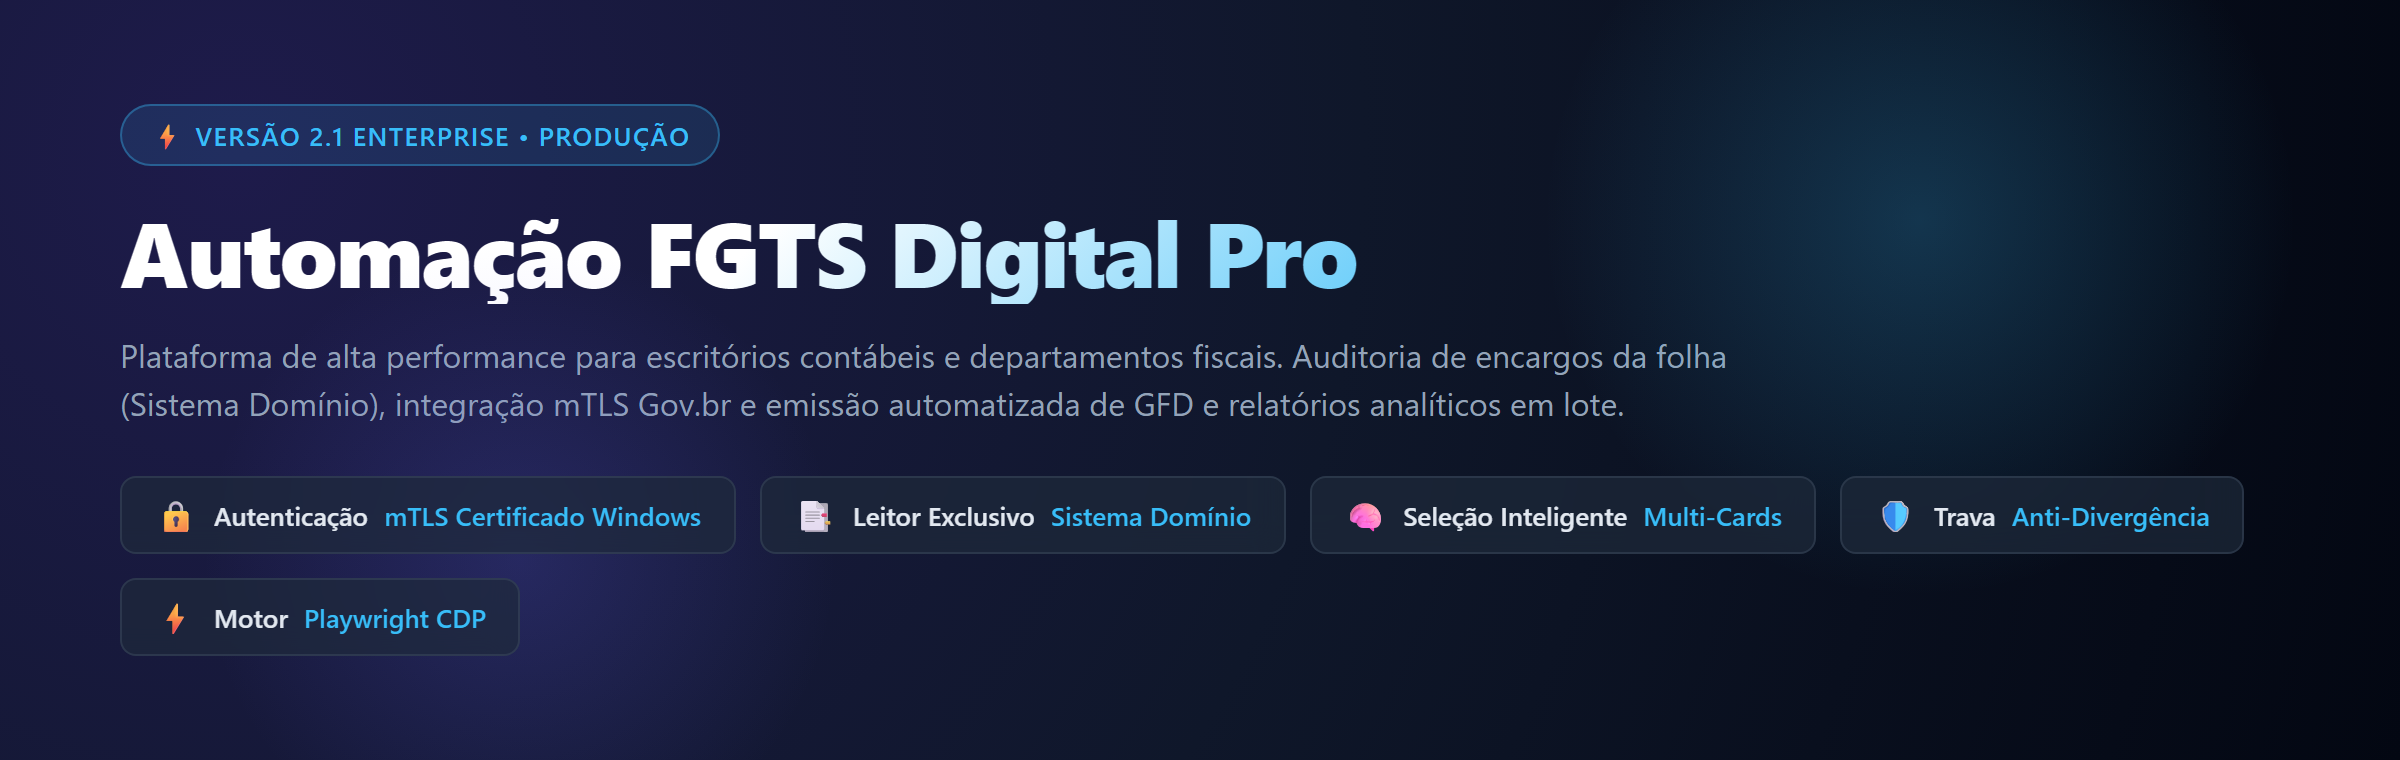
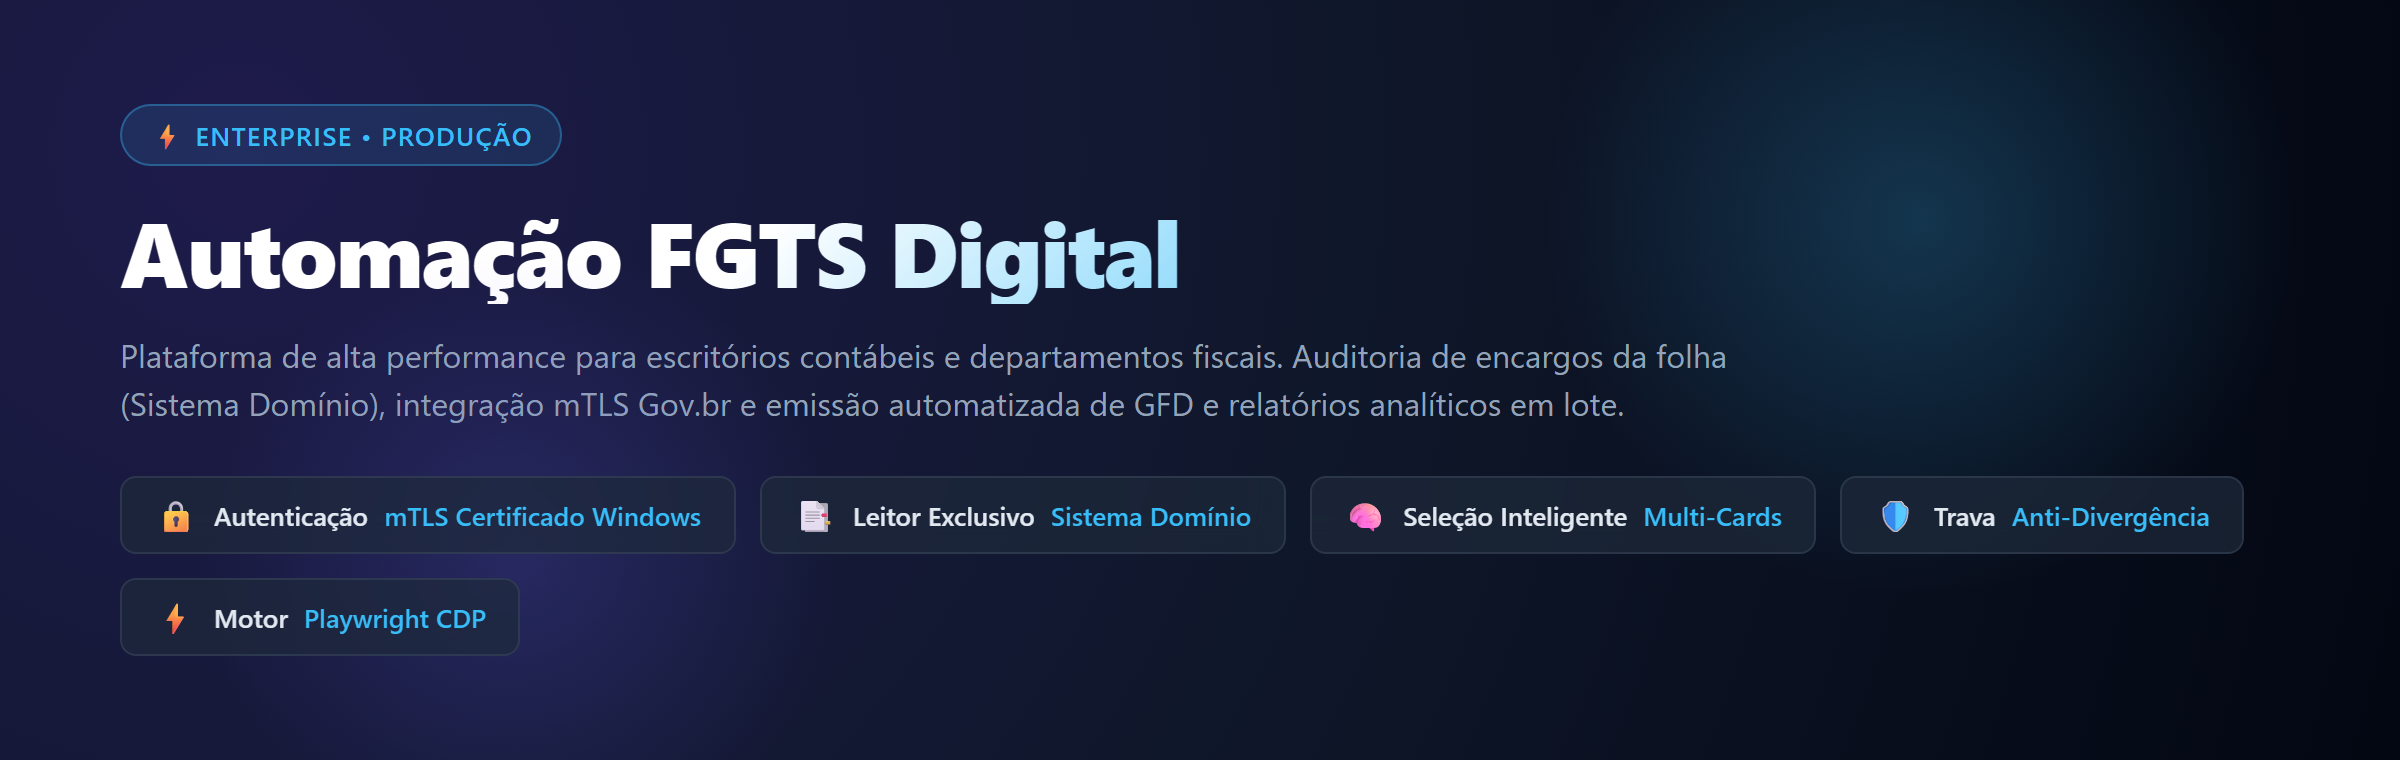
chore: remove mencoes a "Pro" e "v2" do programa e da documentacao
- Interface: titulo "Automacao FGTS Digital", barra lateral "Automacao
  de Encargos", sem numero de versao; log da rodada sem "Pro".
- Banner: sem "Pro" e sem versao (regenerado).
- README, docs, ADRs e comentarios de testes: referencias de epoca
  "v2.1"/"v2.0" trocadas pela data da auditoria (27/10/2026).

Changed region(s): [[0.0625, 0.1513, 0.2812, 0.2118], [0.5, 0.2724, 0.5625, 0.3934]]

diff --git a/src/ui/app.py b/src/ui/app.py
@@ -37,7 +37,7 @@ class FGTSDigitalApp(ctk.CTk):
     def __init__(self):
         super().__init__()
 
-        self.title("Automação FGTS Digital Pro v2.1")
+        self.title("Automação FGTS Digital")
         self.geometry("1180x780")
         self.minsize(980, 580)
 
@@ -144,7 +144,7 @@ class FGTSDigitalApp(ctk.CTk):
 
         lbl_logo_sub = ctk.CTkLabel(
             brand_box,
-            text="Automação de Encargos Pro",
+            text="Automação de Encargos",
             font=ctk.CTkFont(family=FONTE_FAMILIA, size=11),
             text_color="#94A3B8"
         )
@@ -208,7 +208,7 @@ class FGTSDigitalApp(ctk.CTk):
 
         lbl_versao = ctk.CTkLabel(
             footer_sidebar,
-            text="Versão 2.1.0 • mTLS & CDP",
+            text="mTLS & CDP",
             font=ctk.CTkFont(size=10),
             text_color="#64748B"
         )
@@ -1769,7 +1769,7 @@ class FGTSDigitalApp(ctk.CTk):
         output_dir = config["output_dir"]
         modo_rotulo = "Conferência de Valores" if apenas_conferir else "Emissão em Lote"
 
-        logger.info(f"--- Iniciando Rodada FGTS Digital Pro: {modo_rotulo} (Competência: {competencia}) ---")
+        logger.info(f"--- Iniciando Rodada FGTS Digital: {modo_rotulo} (Competência: {competencia}) ---")
         self._na_ui(self.lbl_progresso.configure, text=f"Carregando lote para competência {competencia}...")
 
         contadores = {"sucessos": 0, "pendentes": 0, "erros": 0, "iguais": 0, "divergencias": 0}

diff --git a/scripts/generate_assets.py b/scripts/generate_assets.py
@@ -109,8 +109,8 @@ HTML_BANNER = """<!DOCTYPE html>
 <body>
   <div class="glow-cyan"></div>
   <div class="glow-indigo"></div>
-  <div class="tag">⚡ Versão 2.1 Enterprise • Produção</div>
-  <h1>Automação FGTS Digital Pro</h1>
+  <div class="tag">⚡ Enterprise • Produção</div>
+  <h1>Automação FGTS Digital</h1>
   <p>Plataforma de alta performance para escritórios contábeis e departamentos fiscais. Auditoria de encargos da folha (Sistema Domínio), integração mTLS Gov.br e emissão automatizada de GFD e relatórios analíticos em lote.</p>
   <div class="badges">
     <div class="badge"><span class="icon">🔒</span> Autenticação <span class="hl">mTLS Certificado Windows</span></div>

diff --git a/scripts/capturar_telas.py b/scripts/capturar_telas.py
@@ -53,7 +53,7 @@ EMPRESAS = [
 ]
 DOMESTICO = ("123.456.789-09", "EMPREGADOR DOMESTICO FICTICIO", [("Simples doméstico", "312,40")])
 
-# Status que o robô simulado devolve, por CNPJ (mostra os tipos de resultado da v2.1)
+# Status que o robô simulado devolve, por CNPJ (mostra os tipos de resultado das travas de emissão)
 STATUS_SIMULADO = {
     "11444777000161": "Sucesso - Guia Emitida",
     "22333444000181": "Sucesso - Guia Emitida",

diff --git a/tests/test_bot_seguranca.py b/tests/test_bot_seguranca.py
@@ -1,5 +1,5 @@
 """
-Testes de segurança da emissão (Fase 1 da auditoria v2.1).
+Testes de segurança da emissão (Fase 1 da auditoria de 27/10/2026).
 O robô roda contra um portal falso (ver conftest.py): o objetivo é garantir que,
 na dúvida, ele NÃO emite e NÃO salva arquivo com nome de outra empresa.
 """

diff --git a/tests/test_logger.py b/tests/test_logger.py
@@ -1,6 +1,6 @@
 """
 Testes do logger central: o arquivo de log precisa ser criado mesmo quando o
-logger já foi configurado na importação do módulo (bug corrigido na v2.1).
+logger já foi configurado na importação do módulo (bug corrigido em 27/10/2026).
 """
 
 import logging

diff --git a/README.md b/README.md
@@ -1,5 +1,5 @@
 <p align="center">
-  <img src="docs/assets/banner.png" alt="Automação FGTS Digital Pro" width="100%">
+  <img src="docs/assets/banner.png" alt="Automação FGTS Digital" width="100%">
 </p>
 
 <p align="center">
@@ -19,7 +19,7 @@ Sistema corporativo de alto desempenho desenvolvido para escritórios de contabi
 - [Visão Geral](#-visão-geral)
 - [Demonstração do Fluxo em Ação](#-demonstração-do-fluxo-em-ação)
 - [Principais Funcionalidades](#-principais-funcionalidades)
-- [Interface Gráfica (v2.1)](#-interface-gráfica-v21)
+- [Interface Gráfica](#-interface-gráfica)
 - [Inteligência de Reconhecimento Multi-Cards](#-inteligência-de-reconhecimento-multi-cards)
 - [Arquitetura e Tecnologias](#-arquitetura-e-tecnologias)
 - [Documentação Técnica](#-documentação-técnica)
@@ -40,7 +40,7 @@ Sistema corporativo de alto desempenho desenvolvido para escritórios de contabi
 
 O fechamento mensal de encargos trabalhistas exige a apuração e geração de guias para dezenas ou centenas de empresas clientes. O portal do **FGTS Digital** demanda autenticação Gov.br via mTLS, troca manual de perfil por procuração outorgada e consultas individuais.
 
-A **Automação FGTS Digital Pro** elimina o trabalho manual repetitivo:
+A **Automação FGTS Digital** elimina o trabalho manual repetitivo:
 1. Conecta-se com o Certificado Digital do contador instalado no Windows (A1 ou token A3).
 2. Lê a lista de empresas outorgantes (via planilha Excel ou diretamente do relatório em PDF do Sistema Domínio).
 3. Efetua a troca de perfil para cada cliente no portal via Procuração Eletrônica (SPE).
@@ -97,7 +97,7 @@ Ilustração (não é captura do portal, para não expor dados de clientes) das 
 
 ---
 
-## 🖥 Interface Gráfica (v2.1)
+## 🖥 Interface Gráfica
 
 <p align="center">
   <img src="docs/assets/tela_painel.png" alt="Painel de Controle: cartões de empresas no lote, certificado do Windows e trava ativa; competência, pasta de saída e interruptores de bloqueio por divergência e exigência de valor esperado" width="95%">
@@ -143,7 +143,7 @@ Em cenários reais do portal FGTS Digital, uma mesma competência pode apresenta
 1. **Identificação dos Blocos**: O robô faz a varredura de todos os containers contendo o cabeçalho `Mensal - Vencimento`.
 2. **Cálculo Consolidado**: Para cada card, soma as tabelas internas de **FGTS** e **Consignado**.
 3. **Cruzamento de Precisão**: Escolhe o card cujo `Total Guia` fica **mais próximo** do valor apurado na folha do Sistema Domínio (`fgts_esperado`).
-4. **Descarte de Falsas Divergências**: Ignora guias residuais ou retificadoras (ex: R$ 23,45). Se nem o card mais próximo bater com a folha (diferença acima de R$ 0,02), a **trava de divergência** impede a emissão ([travas](#-travas-de-segurança-da-emissão-v21)).
+4. **Descarte de Falsas Divergências**: Ignora guias residuais ou retificadoras (ex: R$ 23,45). Se nem o card mais próximo bater com a folha (diferença acima de R$ 0,02), a **trava de divergência** impede a emissão ([travas](#-travas-de-segurança-da-emissão)).
 5. **Independência de Vencimento**: A seleção independe de a data ser dia 20 ou antecipada por finais de semana e feriados.
 
 ---
@@ -198,7 +198,7 @@ Para cada empresa da lista:
 5. Emite e baixa o **Relatório Analítico de Débitos** (FGTS e Consignado).
 6. Salva e renomeia os arquivos na pasta da competência.
 
-### 🛡 Travas de Segurança da Emissão (v2.1)
+### 🛡 Travas de Segurança da Emissão
 O robô segue a regra **"na dúvida, não emite"**. Cada empresa só tem guia emitida se passar por todas as travas:
 
 | Trava | O que verifica | Status quando bloqueia |

diff --git a/docs/decisoes/ADR-0003-travas-da-emissao.md b/docs/decisoes/ADR-0003-travas-da-emissao.md
@@ -6,7 +6,7 @@
 
 ## Contexto
 
-A auditoria v2.1 encontrou três caminhos em que o robô podia emitir ou salvar a guia errada **sem avisar**:
+A auditoria de 27/10/2026 encontrou três caminhos em que o robô podia emitir ou salvar a guia errada **sem avisar**:
 
 1. A troca de perfil por procuração era considerada bem-sucedida se nenhum alerta aparecesse — mesmo que o clique em "Selecionar" não tivesse funcionado. A guia seria emitida no perfil da empresa anterior e salva com o nome da atual.
 2. Quando o evento de download não chegava, o robô copiava "o PDF mais recente da pasta temporária" — que podia ser o relatório analítico — e marcava "Sucesso".
@@ -23,7 +23,7 @@ Toda incerteza bloqueia a emissão e vira um status explícito:
 | Perfil | Após a troca, o modal fecha e `span.dados-perfil` exibe a raiz do CNPJ escolhido (confirmado no portal real em 27/10/2026). | `Perfil não confirmado` |
 | Valor de referência | Sem valor esperado, não emite (interruptor "Exigir valor esperado", ligado por padrão). | `Sem Valor de Referência (Não Emitida)` |
 | Card Mensal | O botão "Emitir guia" só é clicado dentro do card Mensal escolhido. | `Card Mensal Não Identificado (Não Emitida)` |
-| Divergência | Diferença máxima de R$ 0,02 entre portal e folha (trava existente desde a v2.0). | `Divergência de Valores (Não Emitida)` |
+| Divergência | Diferença máxima de R$ 0,02 entre portal e folha (trava que já existia antes da auditoria). | `Divergência de Valores (Não Emitida)` |
 | Relatórios | Cada relatório baixado deve conter a raiz do CNPJ e a competência; se reprovar, indica perfil/empresa errados e a guia não é emitida. | `Falha na Validação do PDF (Relatório) - Guia Não Emitida` |
 | Guia | A GFD deve conter raiz do CNPJ, competência e valor do card, e não pode ser cópia de um PDF já salvo para a empresa. | `Falha na Validação do PDF (Guia)` |
 

diff --git a/docs/desenvolvimento.md b/docs/desenvolvimento.md
@@ -72,7 +72,7 @@ Decisão registrada em [ADR-0006](decisoes/ADR-0006-fluxo-de-testes.md).
 | Integração (arquivos) | `test_pdf_parser.py` | Leitor do Domínio com **PDF sintético** no layout real. |
 | Integração (navegador) | `test_bot_seguranca.py`, `test_bot_esperas.py`, `test_browser_modos.py` | Robô contra um **portal FGTS Digital falso** (Playwright com rotas interceptadas, sem rede) e abertura do navegador simulada. |
 | Ponta a ponta (interface) | `test_ui_execucao.py` | Janela real com robô simulado: contadores, mensagem final, Parar, regra de threads, logs simultâneos. |
-| Regressão | todos acima | Cada bug corrigido na v2.1 tem teste que falhava antes. |
+| Regressão | todos acima | Cada bug corrigido na auditoria de 27–28/10/2026 tem teste que falhava antes. |
 | Manual (portal real) | `scripts/diagnostico/`, `main.py --cli --conferir` | Login real e conferência em empresas reais — roteiro abaixo. |
 
 **Rodar tudo:** `.\venv\Scripts\python.exe -m pytest -q` (≈ 80 s). Rodar a suíte completa **antes de cada commit**; ao mexer em interface/threads, rodar várias vezes seguidas (travamentos são intermitentes). Se algum teste passar de 5 min, o `faulthandler_timeout` do `pytest.ini` imprime a pilha de todas as threads.

diff --git a/docs/decisoes/README.md b/docs/decisoes/README.md
@@ -8,7 +8,7 @@ Cada decisão técnica relevante tem um arquivo `ADR-NNNN-titulo.md` com context
 | :--- | :--- | :--- | :--- |
 | [ADR-0001](ADR-0001-chrome-nativo-cdp-porta-9222.md) | Google Chrome nativo via CDP na porta 9222 (risco aceito para computador individual) | Aceita | 27/10/2026 |
 | [ADR-0002](ADR-0002-mascaramento-de-automacao-stealth.md) | Mascaramento de sinais de automação (stealth) | Aceita | 27/10/2026 |
-| [ADR-0003](ADR-0003-travas-da-emissao.md) | Emissão "na dúvida, não emite" (travas da v2.1) | Aceita | 27/10/2026 |
+| [ADR-0003](ADR-0003-travas-da-emissao.md) | Emissão "na dúvida, não emite" (travas da auditoria de 27/10/2026) | Aceita | 27/10/2026 |
 | [ADR-0004](ADR-0004-remocao-do-modo-pfx.md) | Remoção do modo de certificado em arquivo (.pfx) | Aceita | 27/10/2026 |
 | [ADR-0005](ADR-0005-dados-de-navegador-fora-do-repositorio.md) | Dados de navegador e bancos locais fora do repositório | Aceita | 27/10/2026 |
 | [ADR-0006](ADR-0006-fluxo-de-testes.md) | Fluxo de testes: automáticos sem portal real e só com dados fictícios | Aceita | 28/10/2026 |

diff --git a/docs/arquitetura.md b/docs/arquitetura.md
@@ -1,12 +1,12 @@
 # Arquitetura
 
-> Versão 2.1 (auditoria de 27–28/10/2026). Atualize este documento no mesmo commit de qualquer mudança de componente, fluxo ou integração.
+> Revisado na auditoria de 27–28/10/2026. Atualize este documento no mesmo commit de qualquer mudança de componente, fluxo ou integração.
 
 ## Visão geral
 
 Aplicação desktop Windows que lê os encargos de FGTS calculados na folha (relatório "Pagamento de Encargos" do **Sistema Domínio** ou planilha), entra no **FGTS Digital** pelo Gov.br com o certificado do contador instalado no Windows, troca o perfil por **procuração eletrônica** para cada empresa cliente, confere o valor apurado no portal contra a folha e emite a **GFD** (guia) e os relatórios analíticos — ou apenas confere, sem emitir.
 
-Regra central desde a v2.1: **na dúvida, não emite** ([ADR-0003](decisoes/ADR-0003-travas-da-emissao.md)).
+Regra central desde a auditoria de 27/10/2026: **na dúvida, não emite** ([ADR-0003](decisoes/ADR-0003-travas-da-emissao.md)).
 
 ## Componentes
 

diff --git a/docs/decisoes/ADR-0004-remocao-do-modo-pfx.md b/docs/decisoes/ADR-0004-remocao-do-modo-pfx.md
@@ -6,7 +6,7 @@
 
 ## Contexto
 
-O programa oferecia dois modos de certificado: **instalado no Windows** e **arquivo .pfx** (com senha). Na auditoria v2.1 (Fase 2) o modo arquivo foi "corrigido" para injetar o `.pfx` via `client_certificates` do Playwright, porque o Chrome do sistema só enxerga certificados instalados no Windows.
+O programa oferecia dois modos de certificado: **instalado no Windows** e **arquivo .pfx** (com senha). Na auditoria de 27/10/2026 (Fase 2) o modo arquivo foi "corrigido" para injetar o `.pfx` via `client_certificates` do Playwright, porque o Chrome do sistema só enxerga certificados instalados no Windows.
 
 Na Fase 3 constatou-se que essa abordagem **já tinha sido descartada em 13/10/2026**: o `client_certificates` cria um proxy interno no Playwright que bloqueia a resolução dos serviços de captcha (hCaptcha/Arkose), e o Gov.br responde **ERL0033800 – "Captcha inválido"**. Nas execuções reais de 27/10/2026 o Gov.br pediu captcha em 2 de 3 logins — o modo PFX falharia nesses casos.
 

diff --git a/docs/decisoes/ADR-0005-dados-de-navegador-fora-do-repositorio.md b/docs/decisoes/ADR-0005-dados-de-navegador-fora-do-repositorio.md
@@ -6,7 +6,7 @@
 
 ## Contexto
 
-Na auditoria v2.1 foram encontradas em `data/` duas cópias do **histórico do Google Chrome** (`h_copy.db`, `hb_copy.db`, com as tabelas `urls`, `visits` e `downloads`), provavelmente criadas durante a investigação do login no Gov.br. Histórico de navegação é dado pessoal (LGPD) e pode revelar sites de clientes e do contador. Os arquivos estavam ignorados por `data/*.db`, mas uma cópia salva fora de `data/` entraria no Git.
+Na auditoria de 27/10/2026 foram encontradas em `data/` duas cópias do **histórico do Google Chrome** (`h_copy.db`, `hb_copy.db`, com as tabelas `urls`, `visits` e `downloads`), provavelmente criadas durante a investigação do login no Gov.br. Histórico de navegação é dado pessoal (LGPD) e pode revelar sites de clientes e do contador. Os arquivos estavam ignorados por `data/*.db`, mas uma cópia salva fora de `data/` entraria no Git.
 
 O perfil de navegador do robô (`data/browser_profile/`) também guarda cookies de sessão do Gov.br.
 
